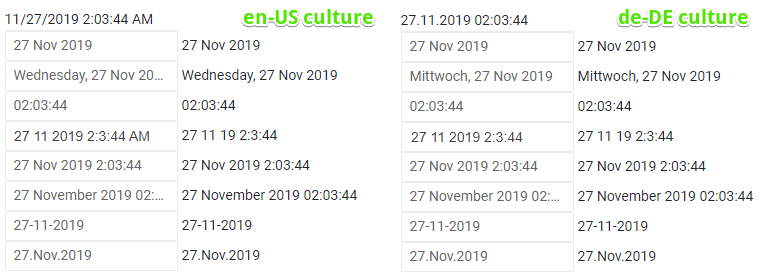
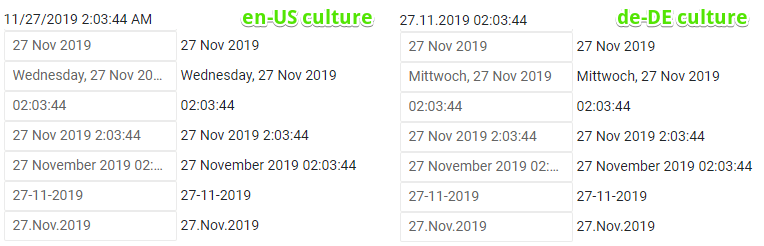
chore(dateinput):removed example with two-digit year and hours

diff --git a/components/dateinput/supported-formats.md b/components/dateinput/supported-formats.md
@@ -158,8 +158,6 @@ Console.WriteLine(date.ToString("hh:mm:ss tt", CultureInfo.GetCultureInfo("bg-bg
 <br />
 <TelerikDateInput @bind-Value="TheDate" Format="HH:mm:ss" /> @TheDate.ToString("HH:mm:ss")
 <br />
-<TelerikDateInput @bind-Value="TheDate" Format="d M yyyy h:m:s tt" /> @TheDate.ToString("d M yy h:m:s")
-<br />
 <TelerikDateInput @bind-Value="TheDate" Format="dd MMM yyyy H:mm:ss" /> @TheDate.ToString("dd MMM yyyy H:mm:ss")
 <br />
 <TelerikDateInput @bind-Value="TheDate" Format="dd MMMM yyyy HH:mm:ss" /> @TheDate.ToString("dd MMMM yyyy HH:mm:ss")
